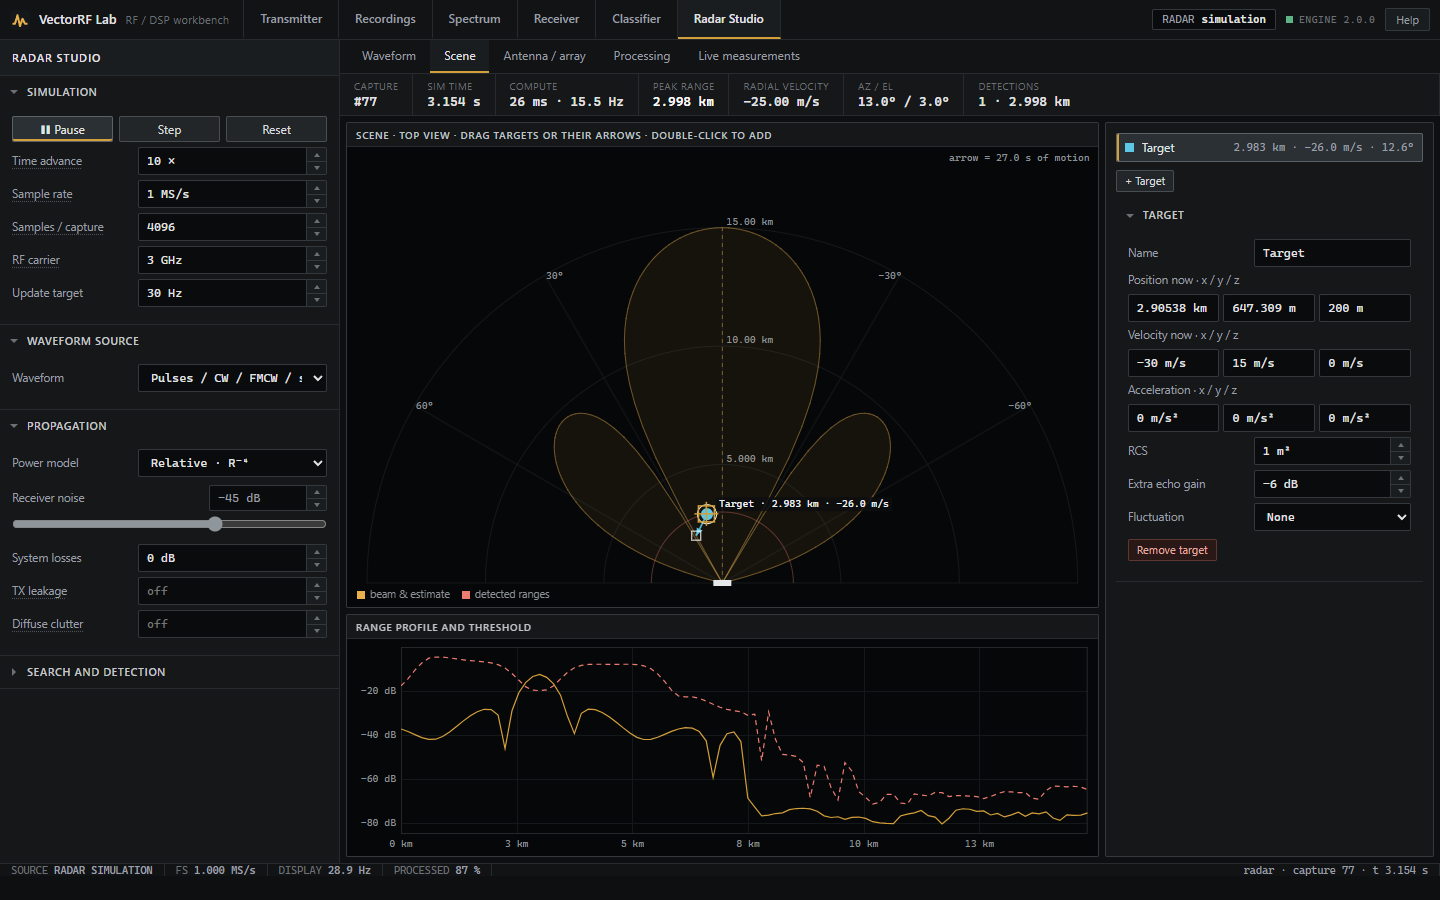
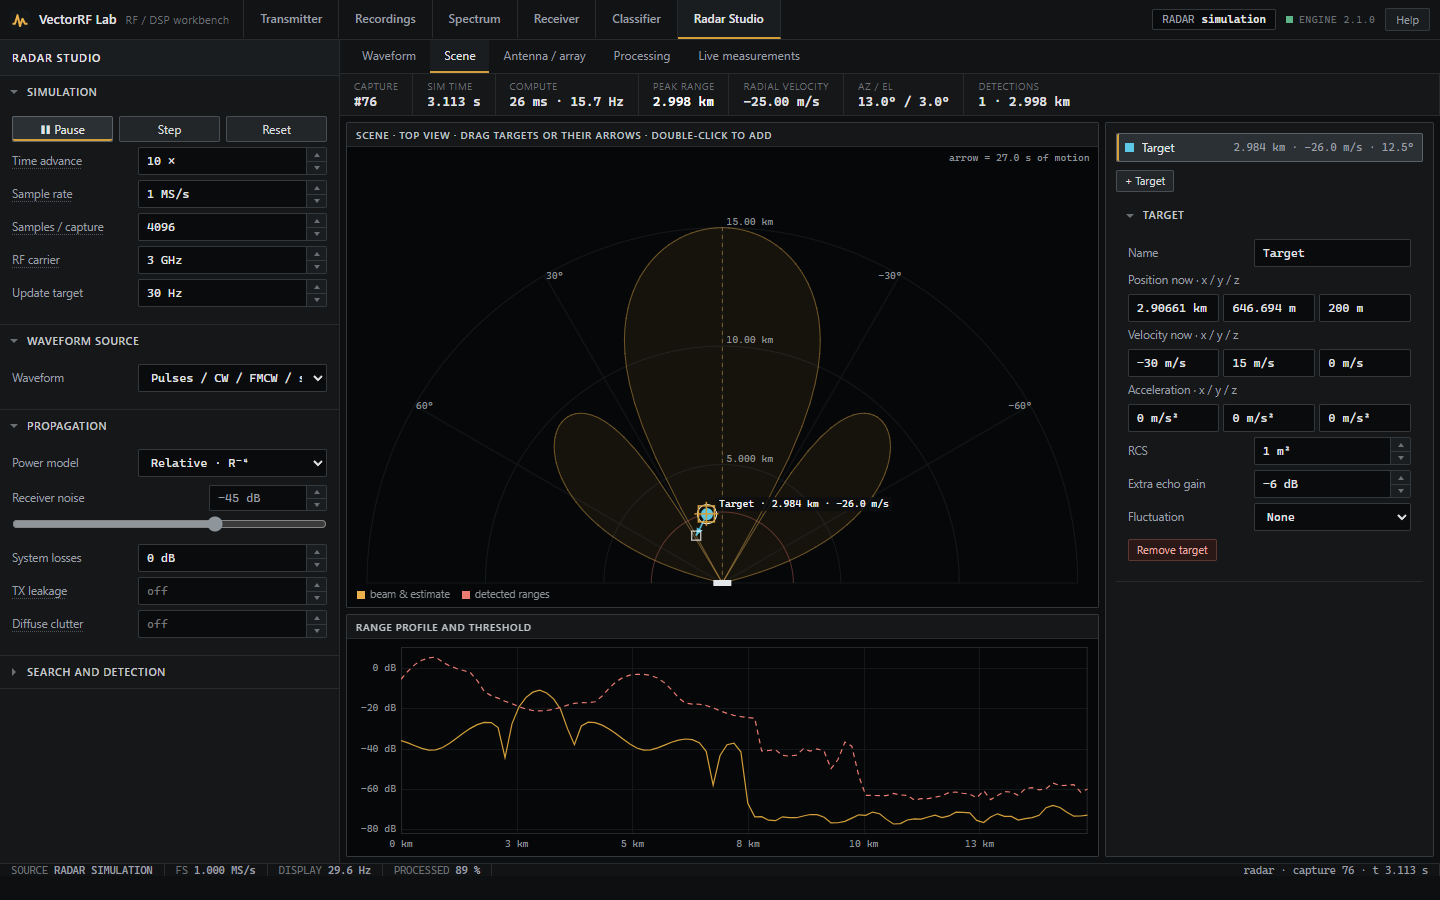
Release 2.1.0
See CHANGELOG.md.

diff --git a/tests/test_release_regressions.py b/tests/test_release_regressions.py
@@ -30,7 +30,7 @@ def test_release_metadata_and_help_page_are_published():
     from vectorrf.models import MAX_SAMPLE_RATE, MAX_CAPTURE_SAMPLES
     health = client.get('/api/health')
     assert health.status_code == 200
-    assert health.json()['version'] == __version__ == '2.0.2'
+    assert health.json()['version'] == __version__ == '2.1.0'
     assert health.json()['max_spectrum_span'] == MAX_SAMPLE_RATE
     assert health.json()['max_capture_samples'] == MAX_CAPTURE_SAMPLES
     help_page = client.get('/help')

diff --git a/backend/vectorrf/__init__.py b/backend/vectorrf/__init__.py
@@ -1,3 +1,3 @@
 """VectorRF Lab DSP package."""
 
-__version__ = "2.0.2"
+__version__ = "2.1.0"

diff --git a/CHANGELOG.md b/CHANGELOG.md
@@ -2,6 +2,39 @@
 
 All notable changes to VectorRF Lab. Versions follow [semantic versioning](https://semver.org/).
 
+## 2.1.0 — 2026-10-10
+
+### Zero span
+
+- Works like an analyzer's: tuned to a centre and filtered by a Gaussian resolution bandwidth before the AM, PM and FM detectors -- auto (the bandwidth the display resolves, 300 / sweep time), manual, or the full band. A tone at the centre reads a flat envelope at its power (a new **Level** readout, in dBm) and 0 Hz. It used to detect the whole sampled band, so at 200 MS/s noise swung the FM trace by hundreds of kHz.
+- Display points show the minimum and maximum of the samples they cover, like an oscilloscope's peak detect. Picking one sample per point aliased anything faster than the display -- the beat of a tone and its copy 5 MHz away, the noise -- into a pattern that changed every sweep. Axes hold still from sweep to sweep.
+- One FFT covers the sweep and the filter's settling time, so the cost follows the sweep rather than the capture, and the filter reads the stream beyond the capture so sweeps start and end settled: 30 updates/s at 200 MS/s (16–27 before).
+- **Every sample** sweeps consecutive intervals of the stream. It used to show the first 2 ms of each 20 ms capture while processing all of it (3–10 updates/s at 200 MS/s).
+
+### Modulation quality
+
+- **Every sample** measures each capture in consecutive segments, as much per update as it processes in a frame: 28–30 updates/s at 200 MS/s (1.4–2.2 before; a tone's whole 4 M-sample capture took 800 ms).
+- A composite is measured one component at a time (**Component**), tuned to it with its hop schedule removed, instead of as the raw sum.
+- A signal without symbols is tuned to its carrier and filtered to its band, drawn with min/max points, and read as its frequency, frequency spread and AM depth.
+- The demodulator runs only for the formats whose EVM it measures.
+
+### Radar
+
+- CFAR multipliers count independent training cells. The range axis is sampled finer than its resolution, its neighbouring cells are correlated, and noise alone produced 6–15 times the requested false-alarm rate: a spurious detection every few frames. None in 40 noise-only captures per detector now.
+- One detection per target: the strongest cell of each mainlobe with a threshold crossing in it. Clusters of cells above threshold merged two targets at one range whose Doppler sidelobes touched, and listed a strong target's Doppler sidelobes as further targets (the default scene listed one at 100 m/s).
+- Weaker peaks on a stronger target's range or Doppler line are recognised as its sidelobes against the waveform's autocorrelation and the Doppler window's sidelobe envelope; a second threshold, guarding the waveform's sidelobes, keeps a strong target from raising its own.
+- The default custom phase code is Barker 7. The former default (0, 180, 0, 0, 180, 0, 180) had −5.6 dB range sidelobes that hid the targets it was meant to show.
+
+### Performance
+
+- Composites sum and tones form their carrier in single precision: 4 M samples of two tones generate in 120 ms (274 ms).
+- Pulse shaping at high oversampling computes only the symbol rows a slice needs; at 40,000 samples per symbol the block alignment of 2.0.2 computed 10 M samples for any slice.
+
+### API changes
+
+- `/api/measurements` and the live measurement: zero span defaults to the auto RBW at `center_hz` (`full_band: true` detects the whole band as before); traces hold at most 600 points, with the maxima of bucketed points in `*_max` and `null` where phase and frequency are undefined; `valid`, `frequency_valid` and `decimation` are gone; new `level_db`, `level_unit`, `noise_bandwidth_hz` and `mean_frequency_hz`. `component` chooses the composite component modulation quality measures.
+- Radar detections are peaks; `margin_db` is the largest excess over the threshold within the detection's mainlobe.
+
 ## 2.0.2 — 2026-10-10
 
 - A real-time capture prefix of a chirp without its own sweep period is the start of the capture again. The shorter prefix that real-time pacing asks for (for the receiver and modulation quality) used to sweep over the prefix instead of the capture, a different signal from the one the spectrum showed.
